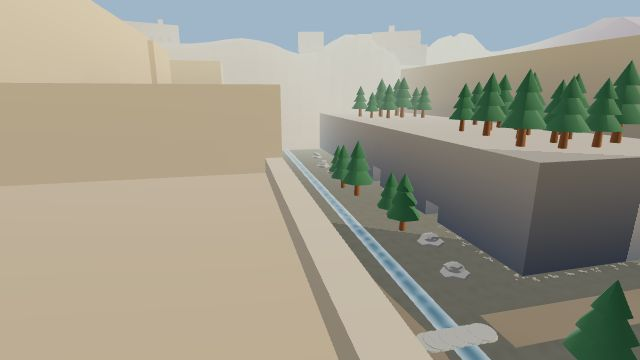
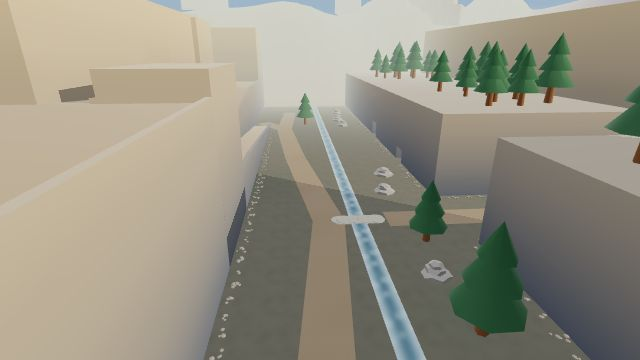
docs(caves): the caves' live check

diff --git a/verify-places.html b/verify-places.html
@@ -175,8 +175,11 @@
     // from the truce path's last bend, looking down the bay to the island and
     // its bridge
     pines: '-6,1.6,-2,28,1.0,28',
-    // from the clifftop's lip, looking south down the gorge
-    gorge: '3,13.8,-26,-8,2,20',
+    // high over the gorge's north end, looking south down the floor: the
+    // stream, the path, the stepping stones and pines (the card picture). The
+    // first view, from the clifftop's lip '3,13.8,-26,-8,2,20', was half bare
+    // rock
+    gorge: '-3,15,-40,-6,0,0',
   };
   const c = (params.get('cam') || VIEWS[id]).split(',').map(Number);
   if (params.has('bare')) document.getElementById('hud').remove();

diff --git a/docs/VISUAL-PASS.md b/docs/VISUAL-PASS.md
@@ -1997,3 +1997,151 @@ these. The iPhone 18 reading is still the owner's.
 rainbow behind the east rim (no rain came); dusk and rain; touch walking (the
 walk used keys and mouse turns, the map used real touch taps); the phone's
 draw counts in the Gorge; the co-walk; the iPhone 18 reading and thermals.
+
+## The Gorge's caves — live check (2026-11-02)
+
+Part 3 of the Gorge (the caves: darker deeper, the warm glow, the cave camera,
+rain outside, crystals, the Snug Cave's cat), branch `gorge-design` at a952d56.
+Same method as the Gorge entry above: headless Chromium (SwiftShader) on the
+worktree's own port, a throwaway save, the cat moved by setting its position
+and walked with the arrow keys while the camera was turned with synthetic
+`mousemove`s. Every animation frame was traced: sun, fill, glow, which cave
+interior was drawn, the rain column, and the camera's distance and height
+from the cat. The full suite (217 files, 5,891 tests) and the build pass.
+
+**Walked in and out of each cave at every zoom step (0-3), by day and on a
+dusk walk** (glow collar worn, Dusk walk ticked): 24 walks in and 24 out,
+from open ground through the bend to the chamber's end and back.
+
+- **The light.** In each chamber the sun and the fill sit at exactly 0.30 of
+  what they were outside (Echo by day 1.8 → 0.54; at dusk 0.42 → 0.126, the
+  darkest case), and the glow is at 2.0. The sun changes by at most 0.02-0.07
+  a frame (at 4-5 fps), with no jumps. After she steps out it is back to full
+  in 0.24-0.53 s on 22 of the 24 walks out. Two dusk readings took 0.99 s and
+  1.09 s, which looks like SwiftShader stalling a frame (worst frames ran
+  0.8-0.95 s); in code, the climb back from 0.3 takes 0.35 s.
+- **Never black.** No chamber frame has more than 0.02% near-black pixels.
+  Mean luma of the screen (HUD hidden, Rec.709 weights, 0-255):
+
+  | frame | by day | at dusk |
+  |---|---|---|
+  | Echo Cave: floor outside, facing the mouth | 99.6 | 99.8 |
+  | **Echo Cave chamber** | **85.2 (86%)** | **85.3 (85%)** |
+  | Snug Cave: ledge outside / chamber | 169.5 / 143.1 (84%) | 143.0 / 145.1 (101%) |
+  | Glitter Cave: clifftop outside / chamber | 156.4 / 155.9 (100%) | 144.9 / 155.6 (107%) |
+
+  The Echo chamber at dusk is 85% of the floor, far above the 25% line, so
+  `DARK_FLOOR` stays where it is. On screen the caves hardly darken at all: the
+  sun and fill drop to 0.3, but the image-based light, exposure and bloom do
+  not, and the glow lights her cat and the floor round her. The chambers read
+  as warm, soft rooms (Snug and Glitter pale tan, Echo grey-blue). Cosy, not
+  cave-dark. Whether that is the look the owner wants is his call.
+- **Camera in rock** (below the ground, or above a cave or den ceiling): 0 of
+  7,285 frames on these walks.
+- **Camera after leaving.** A clean run at each zoom step: walk out of the
+  Echo Cave, then look over the open floor. The camera is back at the chosen
+  step (2.95 / 4.43 / 6.89 / 10.8 m) within about 3 s. While she stands just
+  outside a mouth with her back to it, the camera stays close because the
+  rock is behind her (part 1's pull-in).
+
+**Details:**
+
+- **Crystals** glint as small pale shards along the walls (Echo blue-white,
+  Snug cream, Glitter gold with flecks), each cave's interior drawn only near
+  that cave. The trace saw 0 interior switches during any walk in or out: an
+  interior turns on 12 m out on open ground, with the cave's walls between it
+  and the camera. The screenshot-diff test for pop-in was swamped by strays
+  moving between frames, so "no visible pop-in" rests on the trace and on
+  watching the walks, not on that diff.
+- **The Snug Cave's cat** is there on every walk (Pumpkin on one, Dumpling on
+  another: the name changes walk to walk, as ruled). "E — touch noses with
+  Dumpling" → "You met Dumpling the loner! ♡", then "E — feed Dumpling 🐟".
+- **Found in the dark:** the Echo Cave's golden mouse reads clearly as a
+  yellow mouse on the chamber floor; walking onto it gives "You spotted a
+  GOLDEN MOUSE! 🥇 +50". The white pebble ("E — pick up a smooth white
+  pebble", +10) and the Glitter Cave's gold-flecked stone ("E — pick up a
+  gold-flecked stone", +10) are both found the same way.
+- **Rain** (forced in the served `weather.js`, its draw kept): the rain column
+  hides when the camera goes under a ceiling and comes back when the camera
+  comes out (Snug: off at the mouth, on again outside; Echo: off inside). It
+  goes by the camera, so with her just outside a mouth, facing away, the
+  camera is still under the ceiling and it looks dry where she stands (as C6
+  rules).
+- **The corner map** shows each mouth as a small dark arch: Echo and Snug
+  from the middle of the floor, Snug and Glitter from the clifftop. No one
+  view holds all three: the Echo and Glitter mouths are 71 m apart and the
+  map's radius is 35 m.
+- **Quitting the walk deep in the Echo Cave** (sun 0.57, glow 2.0), then a
+  Woods walk with clear weather forced on both: sun 3.0, fill 0.45, no glow
+  light, exposure 1.1, mean luma 171.4. A fresh Woods walk reads 3.0 / 0.45 /
+  none / 1.1 / 171.5. Lit as normal.
+- No console errors or page errors anywhere.
+
+**Draw calls with the glow light in place.** `?perf`, HIGH, 1280x720 at 1x, 22
+strays; two Gorge walks, the Pines and the Woods the same hour. Part 2's
+readings (taken without the light) are beside them. Strays, critters and
+weather re-roll each walk.
+
+| view | this check (two walks): draws (shadow / scene), triangles | part 2 |
+|---|---|---|
+| Gorge floor (-5, 0), south, zoom 1 | 558 (306/238) 155,662; 683 (403/266) 178,482 | 718 (454/250) 183,260 |
+| Gorge floor, zoom 3, top pitch, south | 535 / 152,758; 689 / 180,642 | 729 / 186,954 |
+| **clifftop (4, -24), zoom 3, top pitch, south (the look-down)** | **772 (334/424) 185,786; 774 (277/480) 185,610** | 805 (339/452) 191,764; 685 (343/328) 169,052 |
+| **clifftop (16, -30), zoom 3, top pitch, south** | **725 (237/476) 173,050; 746 (196/536) 175,308** | 560 (153/393) 141,522 |
+| Echo Cave chamber, zoom 1 | 132 (61/57) 67,476; 130 67,380 | — |
+| Snug Cave chamber, zoom 1 | 574 (187/373) 142,714; 598 (314/270) 147,922 | — |
+| Glitter Cave chamber, zoom 1 | 123 (58/51) 49,394; 123 49,250 | — |
+| Pines spawn, zoom 1 | 564 (95/455) 152,472 | 660-688 |
+| Woods spawn, zoom 1 | 633 (203/416) 153,614 | — |
+
+- The look-down falls between part 2's two readings: 4% under the 805,
+  13% over the 685.
+- The second clifftop spot reads 30% over part 2's single reading at the same
+  camera, with every cave interior hidden. The glow adds no draw calls (an
+  on/off test in one session drew the same), so the extra comes from what the
+  walk rolled, but this was not proven.
+- The Echo and Glitter chambers are the cheapest views in the Gorge. The Snug
+  chamber (574-598) is on a par with the floor (558-683): it is lighter than
+  the floor on one walk and 3% heavier on the other.
+- **Frame time** (SwiftShader, software, relative only): look-down 322 / 334
+  ms against part 2's 233 / 236 (+38-43%). The Pines baseline drifted +10-17%
+  the same hour (299 against 255-272). A glow on/off/on test at the look-down
+  in one session read 331 / 252 / 275 ms and 345 / 319 / 339 ms: the light
+  costs something on every pixel, as C3 warned (+6-9% on the steadier
+  readings). This cannot be judged headless. The iPhone 18 look-down with
+  the light is the owner's check, and decides C3's fallback.
+
+**Seen, not fixed:**
+
+- **Zooming in while inside a cave jams the camera behind her head, and it
+  stays jammed.** Start at zoom step 3, stand in the Echo Cave's corridor
+  (-24, 23.5) and press `=` three times. The camera goes straight overhead
+  (0.03 m out, 2.3 m up), then settles 0.5-0.7 m behind and 0.5 m above her
+  feet, so the screen is the back of her head and ears. Walking out onto the
+  open floor, walking on, and pressing `-`/`=` again do not bring it back
+  (0.56 m on the floor 15 s later). From step 3 to step 1 in the cave it stays
+  close (0.76 m) until she walks out, then recovers. Step 1 to 0, step 0 to 3,
+  and step 3 to 0 on open ground are all fine.
+- **At a cave's bend, zoom step 3 brings the camera inside her cat's head**
+  (0.19-0.34 m: a huge eye at the Echo Cave's second bend, the inside of her
+  head at the Snug Cave's first). At steps 0-2 the bends hold 0.6-2.4 m. At
+  the Glitter Cave's far bend, step 0 can look straight down on her, or at a
+  bare wall. On ordinary walks in and out it happens for a moment while she
+  turns at a bend: the camera came within 0.4 m of her on 8 of 48 walks (at
+  every step).
+- **The glow makes a white-hot spot on her cat's head and back** (bloom on a
+  light 0.7 m above her). Her coat still reads, but she looks lit by a lamp.
+- **The caves barely darken on screen** (see the luma table): soft and cosy,
+  but not much of a "deeper is darker" feeling.
+
+**Not checked:** sound (drips and rain at a mouth cannot be heard headless);
+touch walking; the phone; the co-walk (both co-walkers see the same cave cat);
+the iPhone 18 fps on HIGH in the Echo and Glitter chambers and at the
+look-down with the glow light, by day and at dusk.
+
+**The place card** was retaken from a new `VIEWS.gorge`,
+`-3,15,-40 → -6,0,0`: high over the gorge's north end, looking south down the
+floor at the stream, the path, the stepping stones and pines, with far less
+bare rock than before. `public/places/gorge.jpg` is 640x360, rendered from the
+shipped view and byte-identical to the trial render. Part 2's suggested
+`1.5,15,-38 → -7,1,2` was close but showed more rock on the left.
